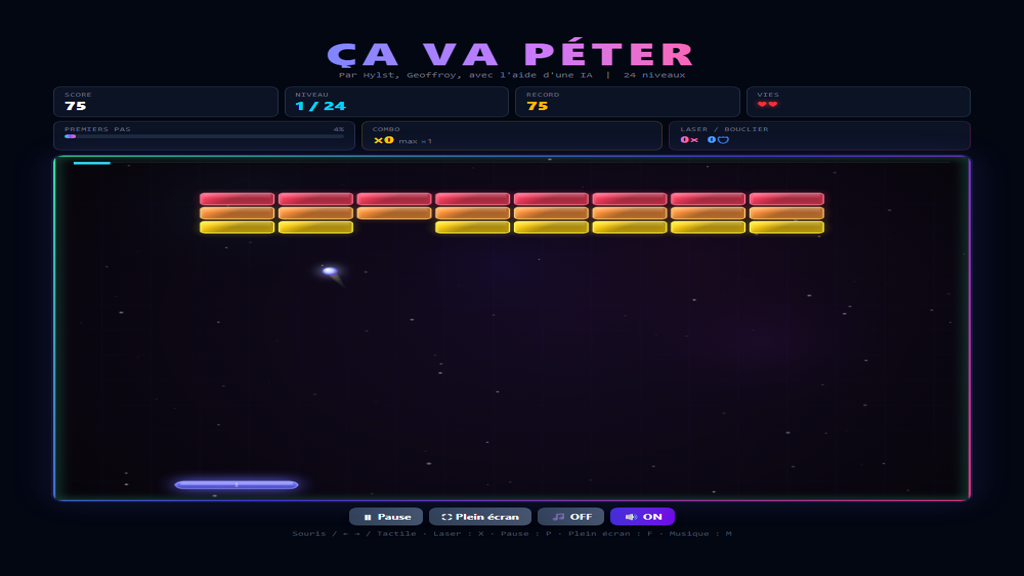
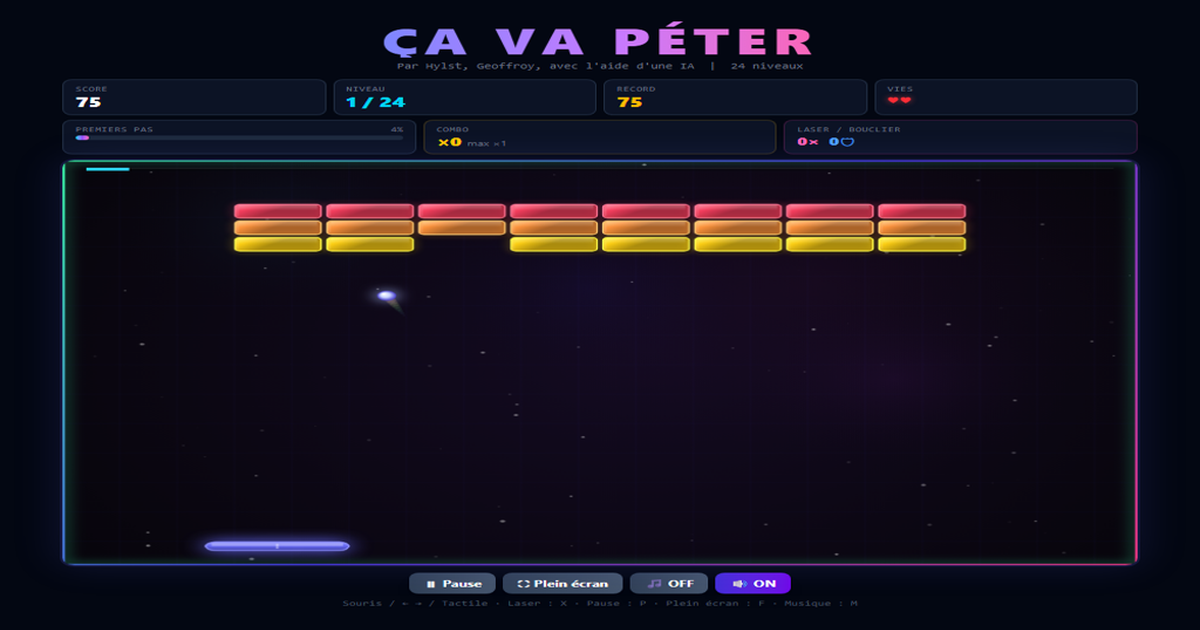
Open Graph : image 1200 x 630 et metadonnees completes

diff --git a/index.html b/index.html
@@ -9,13 +9,17 @@
     <meta property="og:type" content="website" />
     <meta property="og:title" content="Ça Va Péter, casse-briques à 24 niveaux" />
     <meta property="og:description" content="24 niveaux, 11 power-ups, combos et musique adaptative. Casse-briques arcade jouable direct dans le navigateur." />
-    <meta property="og:image" content="https://games.hylst.fr/cavapeter/og-image.png" />
+    <meta property="og:image" content="https://games.hylst.fr/cavapeter/og-image.png?v=2" />
+    <meta property="og:image:type" content="image/png" />
+    <meta property="og:image:width" content="1200" />
+    <meta property="og:image:height" content="630" />
+    <meta property="og:image:alt" content="Ça Va Péter, casse-briques à 24 niveaux" />
     <meta property="og:url" content="https://games.hylst.fr/cavapeter/" />
     <meta property="og:site_name" content="Hylst.Games" />
     <meta name="twitter:card" content="summary_large_image" />
     <meta name="twitter:title" content="Ça Va Péter, casse-briques à 24 niveaux" />
     <meta name="twitter:description" content="24 niveaux, 11 power-ups, combos et musique adaptative." />
-    <meta name="twitter:image" content="https://games.hylst.fr/cavapeter/og-image.png" />
+    <meta name="twitter:image" content="https://games.hylst.fr/cavapeter/og-image.png?v=2" />
     <meta name="robots" content="index, follow" />
     <meta name="theme-color" content="#050510" />
     <link rel="canonical" href="https://games.hylst.fr/cavapeter/" />
